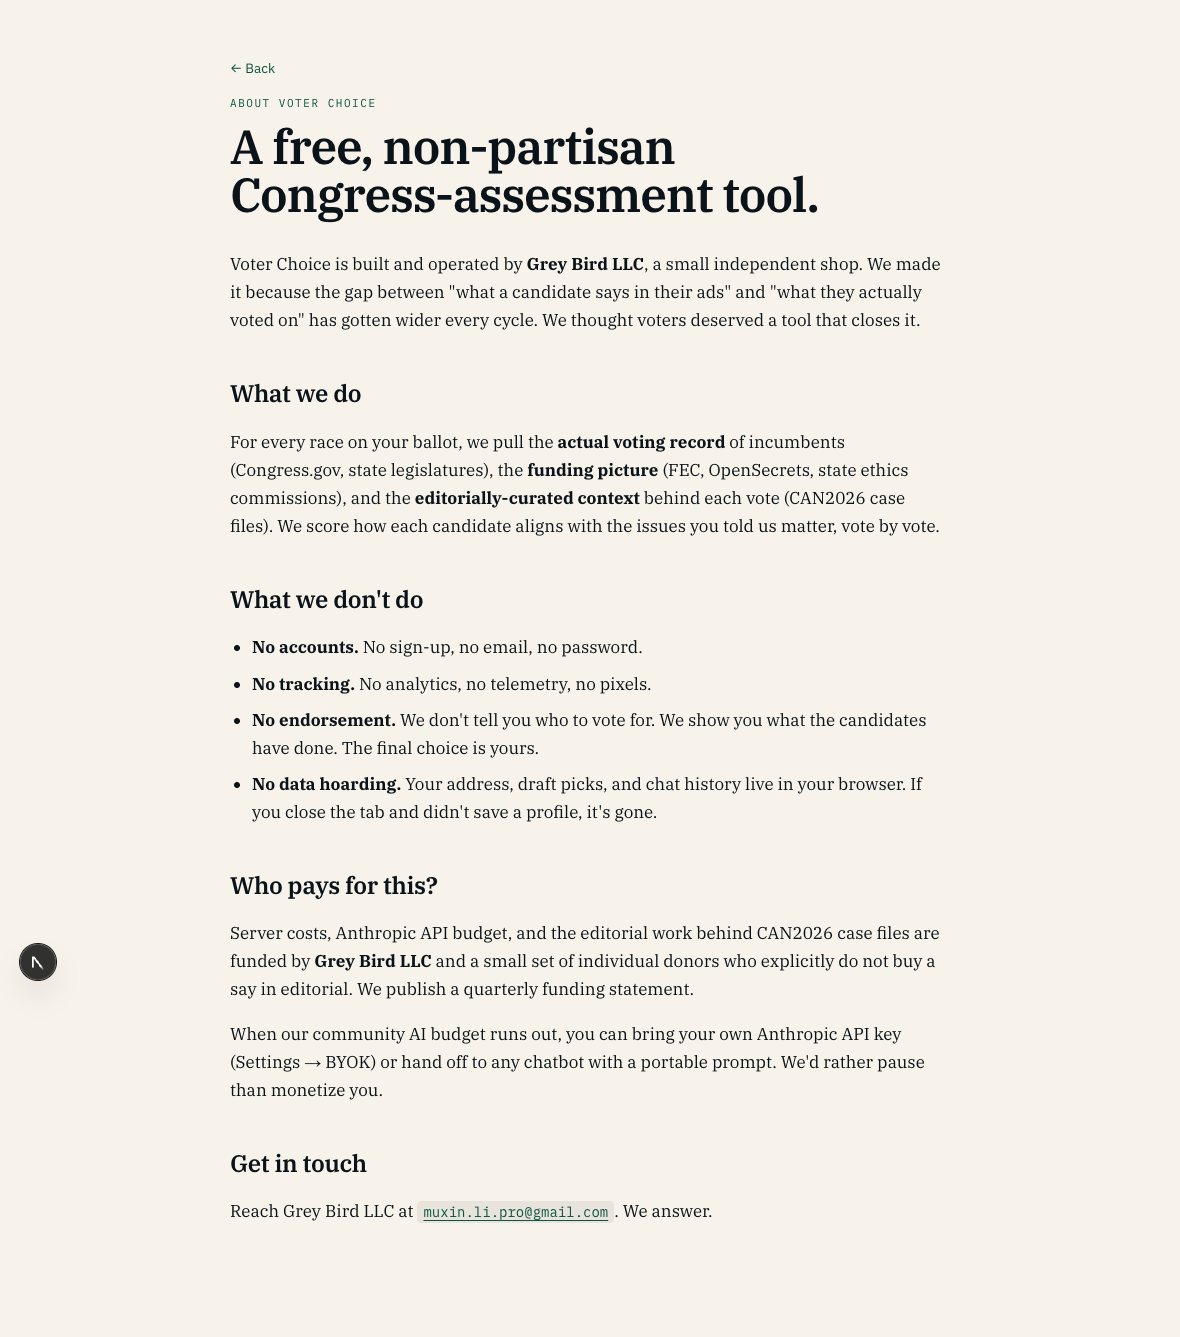
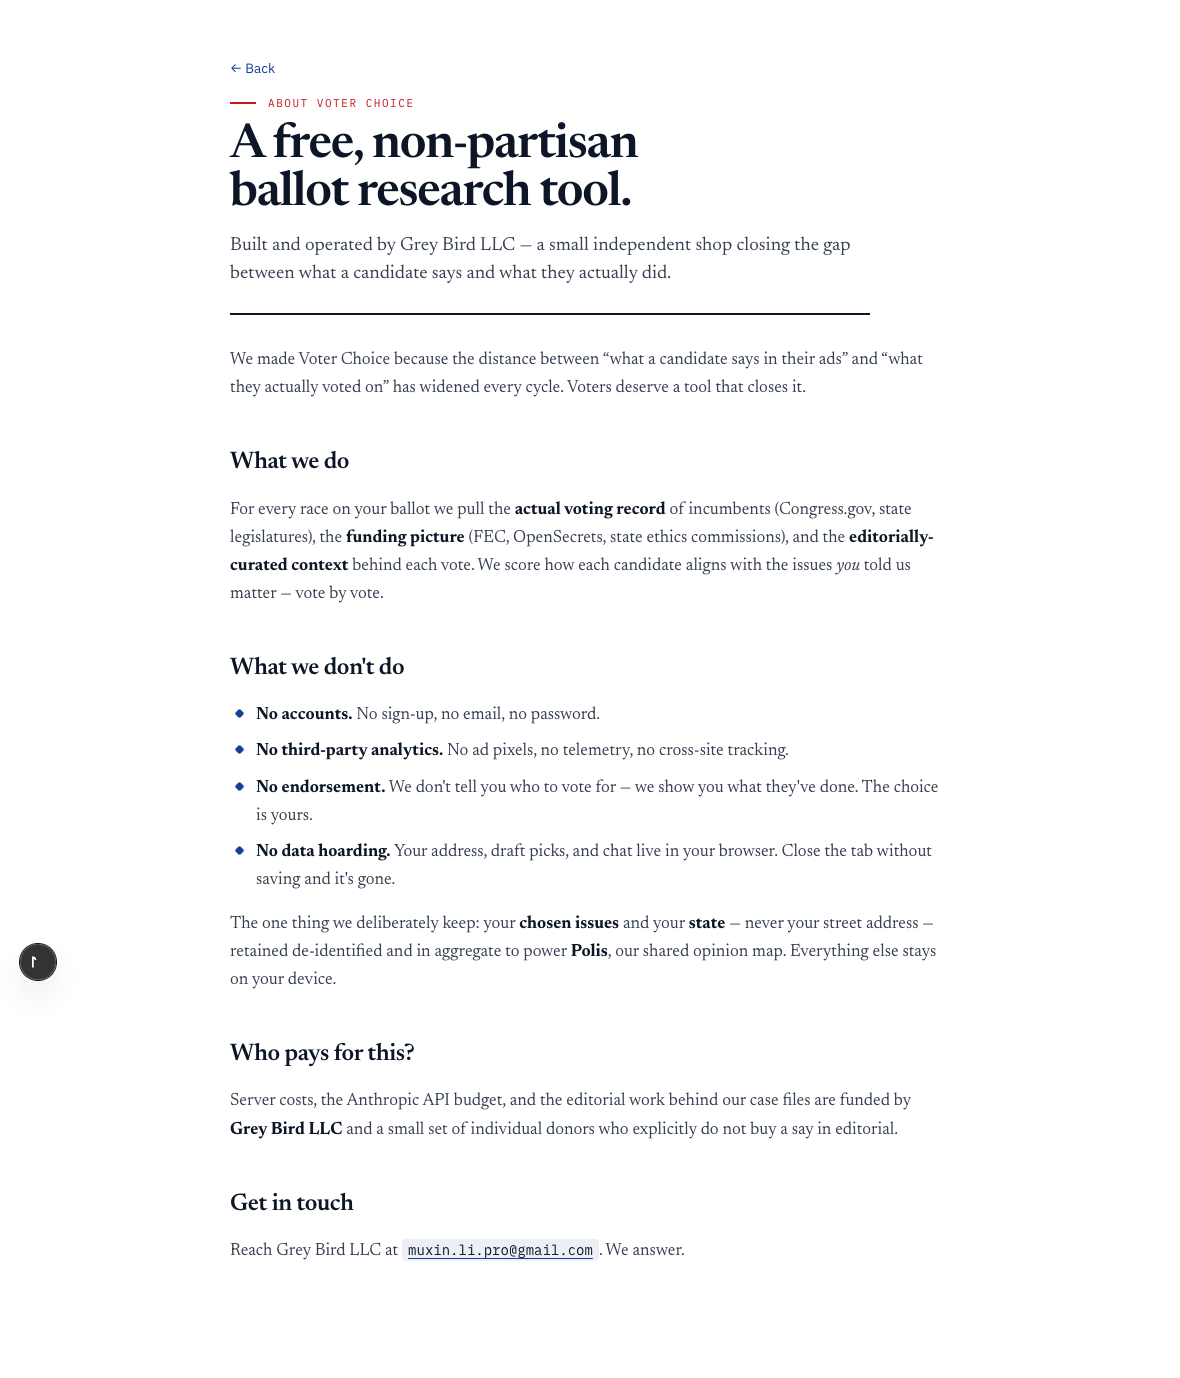
fix(design): verbatim canvas copy + Bold Flag pass on About page (08a-about)
Restores AboutPage (src/prototype/VoterChoiceApp.tsx) to canvas's AboutVC
(design-handoff/keystone-canvas/src/screens-statics.jsx) verbatim copy and
adds a locally-scoped white/navy/red palette under .sp-wrap.sp-about, same
pattern as the tip jar fix (08d-tipjar).

Copy changes vs. canvas, all confirmed by reading both sides directly:
- Title: "A free, non-partisan Congress-assessment tool." -> "...ballot
  research tool." -- a real product-framing wording change, not a typo fix;
  flagging for Muxin's attention even though the standing rule (canvas copy
  is verbatim source of truth) says to make it.
- Dek: previously missing entirely (StaticPage already accepted a dek prop
  from the tip jar work; AboutPage just never passed one) -- added verbatim.
- Body: several paragraphs/bullets reworded to match canvas exactly (curly
  quotes, em-dashes, "you"/"they've" italics/apostrophes preserved verbatim).
- Added the Polis-retention paragraph ("The one thing we deliberately
  keep...") -- 100% missing from the repo before this fix.
- Removed the BYOK paragraph ("bring your own Anthropic API key...") to
  match canvas verbatim -- canvas's About page doesn't mention this feature
  at all. This is real, meaningful product content (Settings -> BYOK) that
  canvas just doesn't cover, likely because canvas predates that feature.
  Flagging prominently for Muxin: defaulted to removing per the standing
  verbatim-copy rule, but this is a content loss worth a second look, not
[…]

Changed region(s): [[0.1831, 0.0307, 0.7932, 0.828], [0.1831, 0.8586, 0.5797, 0.92], [0.0, 0.6746, 0.061, 0.7666]]

diff --git a/docs/design-review/statics.html b/docs/design-review/statics.html
@@ -49,11 +49,11 @@
 </head>
 <body>
   <h1>Keystone review — Statics (About / How it works / Privacy / Tip jar / Loading)</h1>
-  <div class="sub">ref: <code>HEAD (6cecf125)</code> &middot; generated 2026-07-10T13:29:53.711Z</div>
+  <div class="sub">ref: <code>HEAD (aea5992a)</code> &middot; generated 2026-07-10T14:13:00.401Z</div>
   
   <div class="nav-links"><a href="index.html">&larr; back to index</a></div>
   <table>
-    <thead><tr><th>Scenario</th><th>Reference artboard</th><th>Repo (HEAD (6cecf125))</th></tr></thead>
+    <thead><tr><th>Scenario</th><th>Reference artboard</th><th>Repo (HEAD (aea5992a))</th></tr></thead>
     <tbody>
       <tr>
         <td class="meta">
@@ -65,54 +65,6 @@
         </td>
         <td class="shot"><img src="screenshots/refs/08a-about.png" alt="reference artboard"></td>
         <td class="shot"><img src="screenshots/repo/08a-about.png" alt="repo screenshot"></td>
-      </tr>
-
-      <tr>
-        <td class="meta">
-          <div class="id">08b-howitworks</div>
-          <div class="label">Statics — How it works (MethodologyPage)</div>
-          <span class="badge changed">changed since base</span>
-          <span class="tag yes">automated</span>
-          <div class="note">Nav → 'How it works' (label renamed from 'Methodology' by #213, 2026-07-08 — confirmed by reading App2.tsx: it renders the base AppNav, whose link uses t('nav.howItWorks') = 'How it works', not AppNavWithChrome's t('nav.methodology'). Still navigates to the same methodology stage/MethodologyPage. This scenario used to click the old 'Methodology' label and timed out post-rename (Phase 0 finding #8). Scoped to the 'Main' nav landmark — the homepage's own address-box copy also contains an unrelated 'Read about how it works…' link (dead navigate('howitworks') branch) whose accessible name substring-matches 'How it works' too, so an unscoped getByRole hits a strict-mode violation (2 matches).</div>
-        </td>
-        <td class="shot"><img src="screenshots/refs/08b-howitworks.png" alt="reference artboard"></td>
-        <td class="shot"><img src="screenshots/repo/08b-howitworks.png" alt="repo screenshot"></td>
-      </tr>
-
-      <tr>
-        <td class="meta">
-          <div class="id">08c-privacy</div>
-          <div class="label">Statics — Privacy</div>
-          <span class="badge changed">changed since base</span>
-          <span class="tag yes">automated</span>
-          <div class="note">Nav → 'Privacy'.</div>
-        </td>
-        <td class="shot"><img src="screenshots/refs/08c-privacy.png" alt="reference artboard"></td>
-        <td class="shot"><img src="screenshots/repo/08c-privacy.png" alt="repo screenshot"></td>
-      </tr>
-
-      <tr>
-        <td class="meta">
-          <div class="id">08d-tipjar</div>
-          <div class="label">Statics — Tip jar</div>
-          <span class="badge changed">changed since base</span>
-          <span class="tag yes">automated</span>
-          <div class="note">Nav → 'Tip jar'.</div>
-        </td>
-        <td class="shot"><img src="screenshots/refs/08d-tipjar.png" alt="reference artboard"></td>
-        <td class="shot"><img src="screenshots/repo/08d-tipjar.png" alt="repo screenshot"></td>
-      </tr>
-
-      <tr>
-        <td class="meta">
-          <div class="id">08e-loading</div>
-          <div class="label">Statics — Loading state</div>
-          <span class="badge changed">changed since base</span>
-          <span class="tag yes">automated</span>
-          <div class="note">The checklist is a self-advancing 600ms/step client timer, independent of network timing — /api/delegation is deliberately delayed ~2.5s so the stage doesn't flip away before the screenshot.</div>
-        </td>
-        <td class="shot"><img src="screenshots/refs/08e-loading.png" alt="reference artboard"></td>
-        <td class="shot"><img src="screenshots/repo/08e-loading.png" alt="repo screenshot"></td>
       </tr></tbody>
   </table>
   <div class="nav-links"><a href="index.html">&larr; back to index</a></div>

diff --git a/src/prototype/VoterChoiceApp.tsx b/src/prototype/VoterChoiceApp.tsx
@@ -4931,23 +4931,24 @@ function StaticPage({ title, eyebrow, children, onBack, className, dek }) {
 
 function AboutPage({ onBack }) {
   return (
-    <StaticPage onBack={onBack} eyebrow="About Voter Choice" title="A free, non-partisan Congress-assessment tool.">
-      <p>Voter Choice is built and operated by <b>Grey Bird LLC</b>, a small independent shop. We made it because the gap between "what a candidate says in their ads" and "what they actually voted on" has gotten wider every cycle. We thought voters deserved a tool that closes it.</p>
+    <StaticPage onBack={onBack} eyebrow="About Voter Choice" title="A free, non-partisan ballot research tool." dek="Built and operated by Grey Bird LLC — a small independent shop closing the gap between what a candidate says and what they actually did." className="sp-about">
+      <p>We made Voter Choice because the distance between “what a candidate says in their ads” and “what they actually voted on” has widened every cycle. Voters deserve a tool that closes it.</p>
 
       <h2>What we do</h2>
-      <p>For every race on your ballot, we pull the <b>actual voting record</b> of incumbents (Congress.gov, state legislatures), the <b>funding picture</b> (FEC, OpenSecrets, state ethics commissions), and the <b>editorially-curated context</b> behind each vote (CAN2026 case files). We score how each candidate aligns with the issues you told us matter, vote by vote.</p>
+      <p>For every race on your ballot we pull the <b>actual voting record</b> of incumbents (Congress.gov, state legislatures), the <b>funding picture</b> (FEC, OpenSecrets, state ethics commissions), and the <b>editorially-curated context</b> behind each vote. We score how each candidate aligns with the issues <i>you</i> told us matter — vote by vote.</p>
 
       <h2>What we don't do</h2>
       <ul>
         <li><b>No accounts.</b> No sign-up, no email, no password.</li>
-        <li><b>No tracking.</b> No analytics, no telemetry, no pixels.</li>
-        <li><b>No endorsement.</b> We don't tell you who to vote for. We show you what the candidates have done. The final choice is yours.</li>
-        <li><b>No data hoarding.</b> Your address, draft picks, and chat history live in your browser. If you close the tab and didn't save a profile, it's gone.</li>
+        <li><b>No third-party analytics.</b> No ad pixels, no telemetry, no cross-site tracking.</li>
+        <li><b>No endorsement.</b> We don't tell you who to vote for — we show you what they've done. The choice is yours.</li>
+        <li><b>No data hoarding.</b> Your address, draft picks, and chat live in your browser. Close the tab without saving and it's gone.</li>
       </ul>
 
+      <p>The one thing we deliberately keep: your <b>chosen issues</b> and your <b>state</b> — never your street address — retained de-identified and in aggregate to power <b>Polis</b>, our shared opinion map. Everything else stays on your device.</p>
+
       <h2>Who pays for this?</h2>
-      <p>Server costs, Anthropic API budget, and the editorial work behind CAN2026 case files are funded by <b>Grey Bird LLC</b> and a small set of individual donors who explicitly do not buy a say in editorial. We publish a quarterly funding statement.</p>
-      <p>When our community AI budget runs out, you can bring your own Anthropic API key (Settings → BYOK) or hand off to any chatbot with a portable prompt. We'd rather pause than monetize you.</p>
+      <p>Server costs, the Anthropic API budget, and the editorial work behind our case files are funded by <b>Grey Bird LLC</b> and a small set of individual donors who explicitly do not buy a say in editorial.</p>
 
       <h2>Get in touch</h2>
       <p>Reach Grey Bird LLC at <a href="mailto:muxin.li.pro@gmail.com"><code>muxin.li.pro@gmail.com</code></a>. We answer.</p>

diff --git a/public/prototype-c.css b/public/prototype-c.css
@@ -2867,6 +2867,89 @@ Bumps
   text-align: left;
 }
 
+/* ---------- About — Bold Flag / Keystone parity (08a-about) ----------
+   Locally-scoped white-palette tokens matching design-handoff/keystone-canvas
+   src/screens.css .screen[data-palette="white"] + statics.css .sp-mast/
+   .sp-kicker/.dek/.sp-prose rules. Scoped to .sp-about only — does not touch
+   the shared civic palette or any other static page. */
+.sp-wrap.sp-about {
+  --ab-paper: oklch(1 0 0);
+  --ab-paper-2: oklch(0.985 0.003 258);
+  --ab-ink: oklch(0.2 0.035 260);
+  --ab-ink-2: oklch(0.37 0.032 260);
+  --ab-ink-3: oklch(0.54 0.026 260);
+  --ab-brand: oklch(0.4 0.155 262);
+  --ab-rule: oklch(0.88 0.006 260);
+  --ab-replace: oklch(0.53 0.205 27);
+  --ab-tag-bg: oklch(0.95 0.006 260);
+  --ab-serif: "Newsreader", Georgia, serif;
+  --ab-mono: "IBM Plex Mono", ui-monospace, monospace;
+  background: var(--ab-paper);
+}
+.sp-wrap.sp-about .sp-back {
+  color: var(--ab-brand);
+}
+.sp-wrap.sp-about .sp-eyebrow {
+  display: flex;
+  align-items: center;
+  gap: 12px;
+  color: var(--ab-replace);
+}
+.sp-wrap.sp-about .sp-eyebrow::before {
+  content: "";
+  width: 26px;
+  height: 2px;
+  background: var(--ab-replace);
+}
+.sp-wrap.sp-about .sp-title {
+  font-family: var(--ab-serif);
+  color: var(--ab-ink);
+}
+.sp-wrap.sp-about .sp-dek {
+  font-family: var(--ab-serif);
+  font-size: 19px;
+  color: var(--ab-ink-2);
+  border-bottom: 2px solid var(--ab-ink);
+  padding-bottom: 24px;
+}
+.sp-wrap.sp-about .sp-article {
+  font-family: var(--ab-serif);
+  color: var(--ab-ink-2);
+}
+.sp-wrap.sp-about .sp-article h2 {
+  font-family: var(--ab-serif);
+  color: var(--ab-ink);
+}
+.sp-wrap.sp-about .sp-article b {
+  color: var(--ab-ink);
+}
+.sp-wrap.sp-about .sp-article ul {
+  list-style: none;
+  padding-left: 0;
+}
+.sp-wrap.sp-about .sp-article li {
+  padding-left: 26px;
+  position: relative;
+}
+.sp-wrap.sp-about .sp-article li::before {
+  content: "";
+  position: absolute;
+  left: 6px;
+  top: 8px;
+  width: 7px;
+  height: 7px;
+  border-radius: 2px;
+  background: var(--ab-brand);
+  transform: rotate(45deg);
+}
+.sp-wrap.sp-about .sp-article a {
+  color: var(--ab-brand);
+}
+.sp-wrap.sp-about .sp-article code {
+  background: var(--ab-tag-bg);
+  color: var(--ab-ink);
+}
+
 /* ============ NoContestedView — upload-first redesign ============
    Promotes the file upload to a big dropzone-style button at the
    top, with the paste textarea as the secondary path below. Adds

diff --git a/scripts/design/parity-gate.ts b/scripts/design/parity-gate.ts
@@ -1099,6 +1099,44 @@ const CONTENT_PROBES: ContentProbe[] = [
   // A 08d-tipjar CONTENT_PROBES entry is a natural follow-up once
   // wt/tipjar-bold-flag-pass (a separate, not-yet-merged branch fixing that
   // page's copy) lands — not added here, see this worktree's task brief.
+  {
+    scenarioId: "08a-about",
+    assertions: [
+      {
+        text: "Built and operated by Grey Bird LLC",
+        description:
+          "the About dek (first half, split before the em-dash) — canvas's AboutVC " +
+          '(screens-statics.jsx) passes dek="Built and operated by Grey Bird LLC — a small ' +
+          "independent shop closing the gap between what a candidate says and what they " +
+          'actually did." to StaticPageVC',
+      },
+      {
+        text: "a small independent shop closing the gap between what a candidate says and what they actually did.",
+        description: "the About dek (second half, split after the em-dash)",
+      },
+      {
+        text: "The one thing we deliberately keep: your",
+        description:
+          "the Polis-retention paragraph (first half, split before the bold 'chosen issues') — " +
+          "previously 100% missing from AboutPage (src/prototype/VoterChoiceApp.tsx), which had " +
+          "no mention of Polis at all",
+      },
+      {
+        text: "retained de-identified and in aggregate to power",
+        description:
+          "the Polis-retention paragraph (second half, split around the bold 'state')",
+      },
+    ],
+    note:
+      "Genuine FAIL before the fix, confirmed by reading both sides directly: AboutPage " +
+      '(src/prototype/VoterChoiceApp.tsx) called <StaticPage onBack={onBack} eyebrow="About ' +
+      'Voter Choice" title="A free, non-partisan Congress-assessment tool."> with no dek prop ' +
+      "and different title wording, and its body had no Polis-retention paragraph anywhere — " +
+      "the exact class of gap (a)/(b) both miss: '08a-about' already has a STRUCTURAL FAIL for " +
+      "an unrelated reason (the sp-mast/sp-kicker/dek/sp-prose class-diff above), so a passing " +
+      "structural check would never have caught this, and the coarse downscaled visual diff " +
+      "isn't built to notice one missing paragraph of text.",
+  },
 ];
 
 function contentProbeForScenario(scenarioId: string): ContentProbe | undefined {

diff --git a/docs/design-review/index.html b/docs/design-review/index.html
@@ -49,7 +49,7 @@
 </head>
 <body>
   <h1>Keystone design review</h1>
-  <div class="sub">ref: <code>HEAD (6cecf125)</code> (<code>6cecf125</code>) &middot; changed-since: <code>origin/main</code> &middot; generated 2026-07-10T13:29:53.711Z</div>
+  <div class="sub">ref: <code>HEAD (aea5992a)</code> (<code>aea5992a</code>) &middot; changed-since: <code>origin/main</code> &middot; generated 2026-07-10T14:13:00.401Z</div>
   
   <div class="cov">
     <div class="cov-tile"><b>20</b>automated</div>
